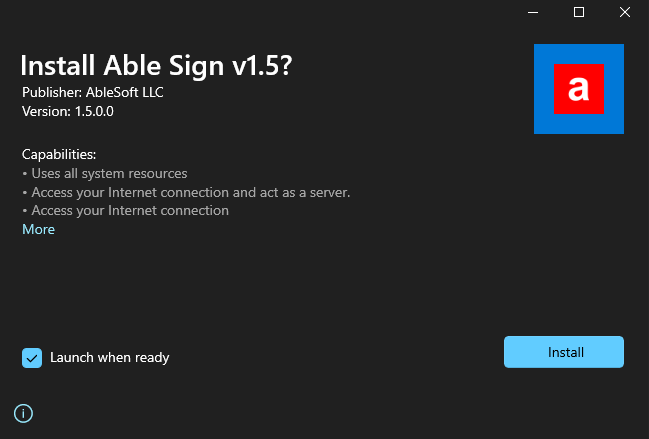
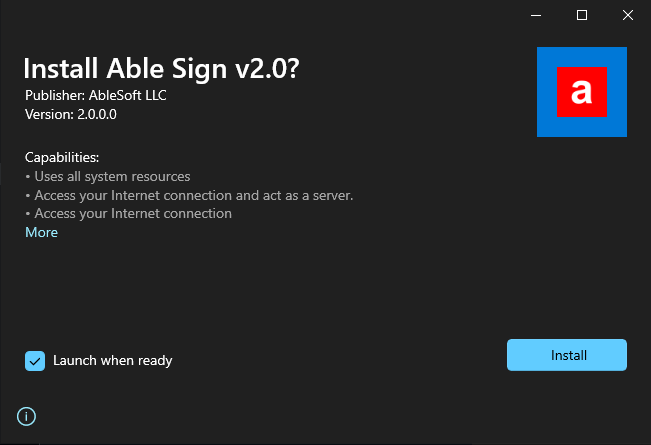
sign 5

diff --git a/ablesign/README_windows.md b/ablesign/README_windows.md
@@ -1,13 +1,13 @@
-# Able Sign v1.5 суулгах заавар
+# Able Sign v2.0 суулгах заавар
 
 - Та эхлээд Tridium болон MonPass драйверүүдийг суулгах хэрэгтэй. Хэрэв та эдгээр драйверүүдийг суулгаагүй бол дараах холбоосоор орж суулгах зааврыг дагаж хийнэ үү.
 
   - [Tridium](tridium_windows.md)
   - [MonPass](monpass_windows.md)
 
-- **Able Sign v1.5** суулгахад дараах алхамуудыг дагаж хийнэ үү.
+- **Able Sign v2.0** суулгахад дараах алхамуудыг дагаж хийнэ үү.
 
-1. Дараах нэртэй **able_sign v1.5.cer** файлыг сонгон давхар дарж нээнэ.
+1. Дараах нэртэй **able_sign_certificate.cer** файлыг сонгон давхар дарж нээнэ.
 
    ![Able Sign](img/folder_windows.png)
 
@@ -21,7 +21,7 @@
    - ![Process 6](img/able_sign_install6_windows.png)
    - ![Process 7](img/able_sign_install7_windows.png)
 
-3. Амжилттай суусан бол **able_sign v1.5.msix** файлыг сонгон давхар дарж нээнэ.
+3. Амжилттай суусан бол **able_sign v2.0.msix** файлыг сонгон давхар дарж нээнэ.
 
    ![Able Sign](img/folder_windows.png)
 

diff --git a/ablesign/README.md b/ablesign/README.md
@@ -1,13 +1,13 @@
-# Able Sign v1.5 суулгах заавар
+# Able Sign v2.0 суулгах заавар
 
 - Та эхлээд Tridium болон MonPass драйверүүдийг суулгах хэрэгтэй. Хэрэв та эдгээр драйверүүдийг суулгаагүй бол дараах холбоосоор орж суулгах зааврыг дагаж хийнэ үү.
 
   - [Tridium](tridium.md)
   - [MonPass](monpass.md)
 
-- **Able Sign v1.5** суулгахад дараах алхамуудыг дагаж хийнэ үү.
+- **Able Sign v2.0** суулгахад дараах алхамуудыг дагаж хийнэ үү.
 
-1. Дараах нэртэй **able_sign v1.5.pkg** файлыг сонгон давхар дарж нээнэ.
+1. Дараах нэртэй **able_sign v2.0.pkg** файлыг сонгон давхар дарж нээнэ.
 
     ![Able Sign](img/folder.png)
 

diff --git a/ablesign/_coverpage.md b/ablesign/_coverpage.md
@@ -1,7 +1,7 @@
 <img src="https://raw.githubusercontent.com/kazlo1290/kazlo1290/main/ablesign/img/able.svg" alt="able logo" width="80" height="auto">
 
 
-# AbleSign <small>1.5</small>
+# AbleSign <small>2.0</small>
 
 > Digital signature software for Able
 
